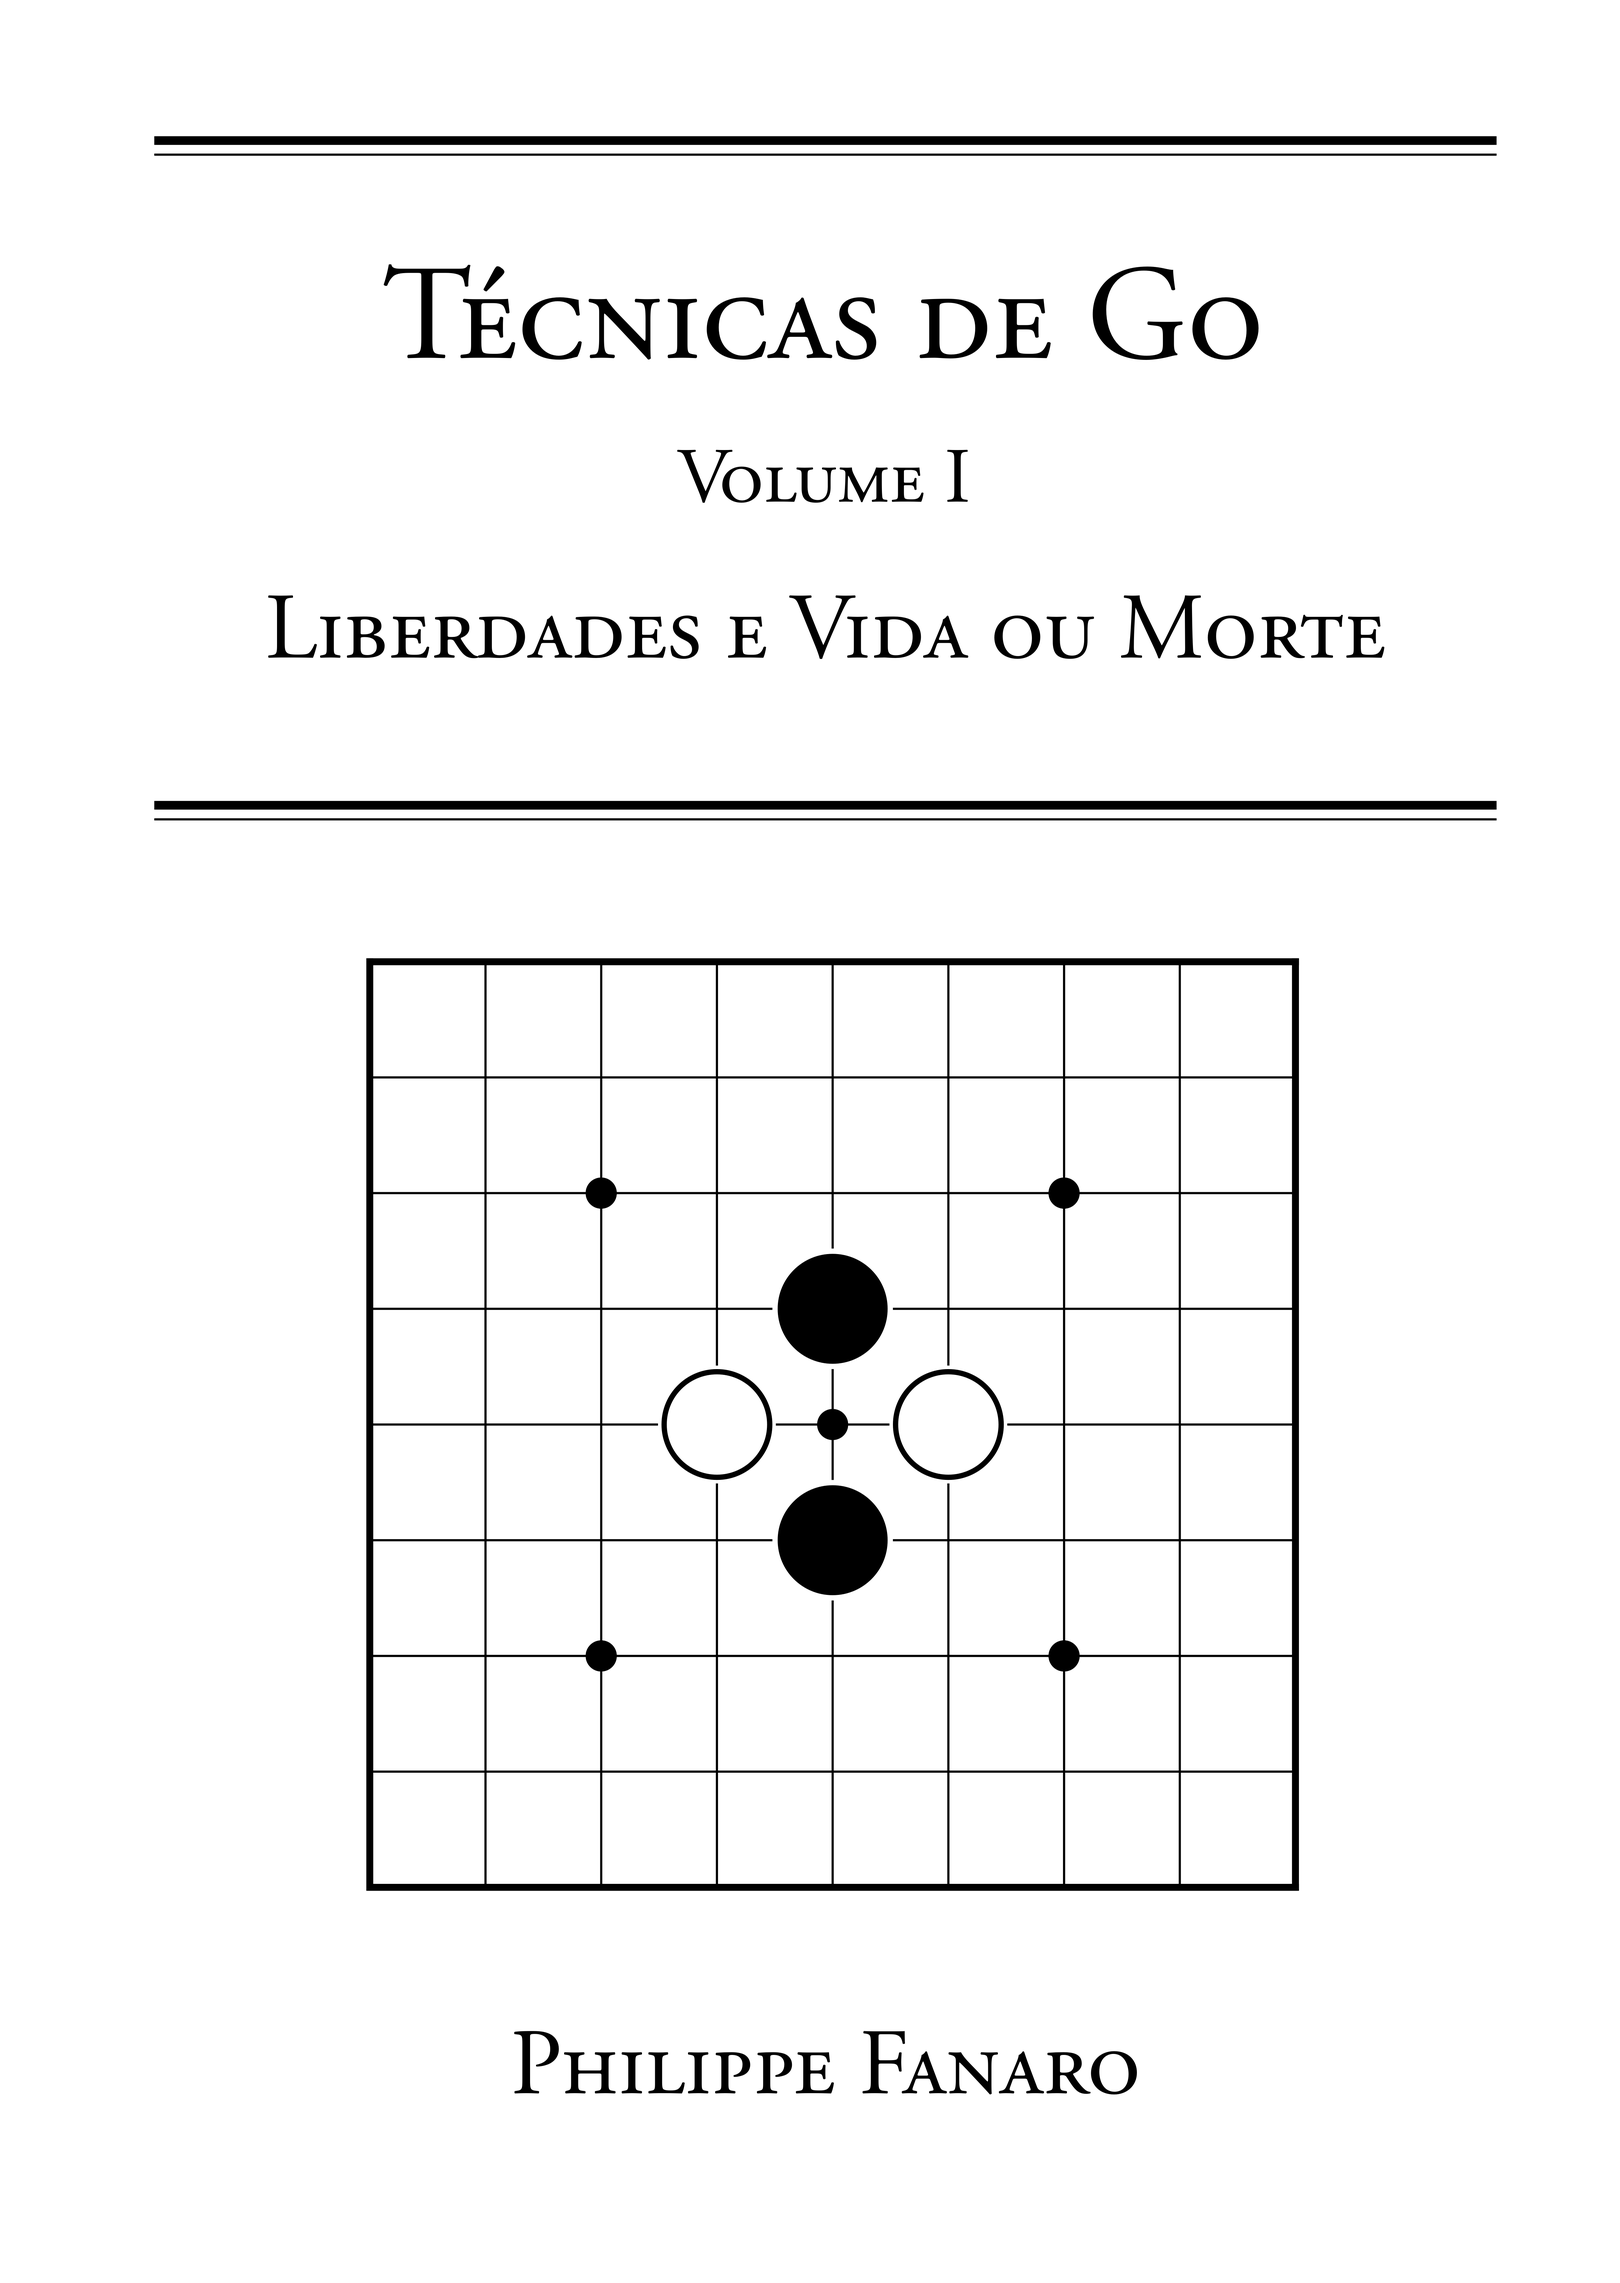
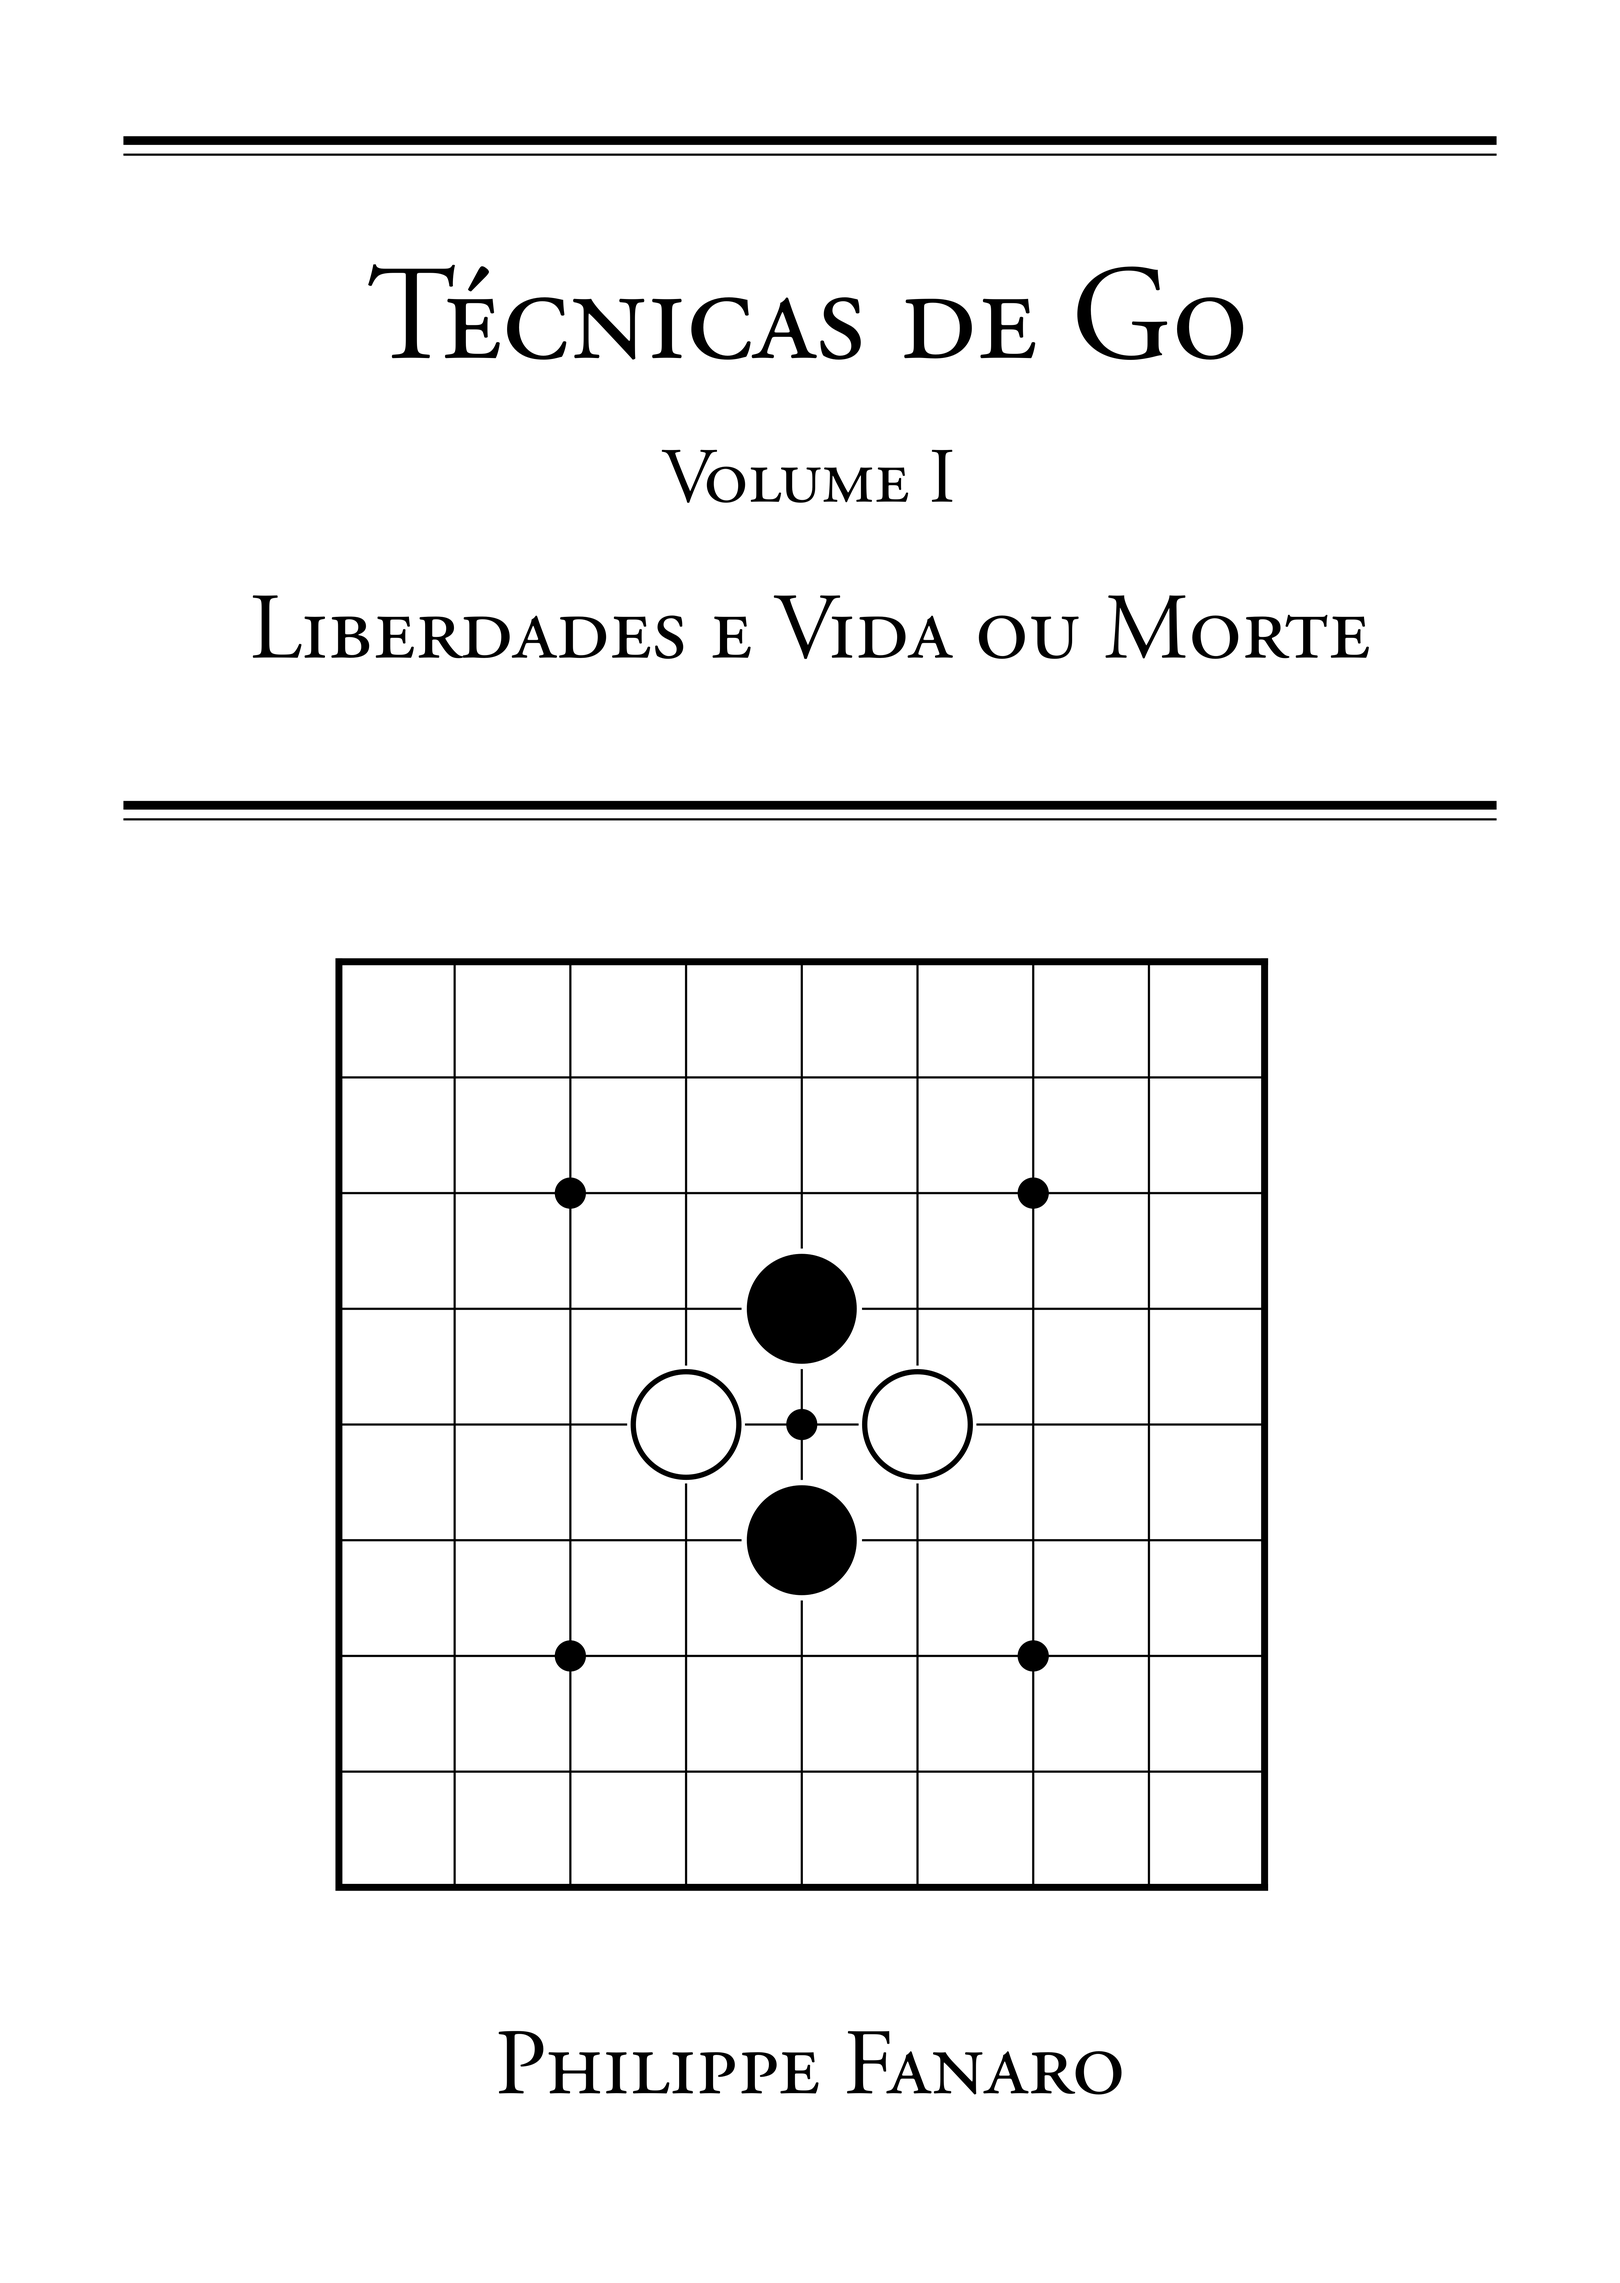
more minor improvements | rerendering the samples

diff --git a/src/Tecnicas_de_Go_1_Contra_Capa.tex b/src/Tecnicas_de_Go_1_Contra_Capa.tex
@@ -18,7 +18,7 @@
   \begin{titlepage}
     \setlength\parindent{0ex}
 
-    \vspace*{-1.5cm}
+    \vspace*{-1.35cm}
 
     \begin{center}
       \LARGE{\scshape Técnicas de Go}
@@ -40,13 +40,13 @@
 
     Philippe Fanaro é um jogador amador \emph{dan} brasileiro, formado em engenharia elétrica pela Escola Politécnica da USP, que procura trazer mais acesso, em língua portuguesa, ao conteúdo de Go disponível em inglês e línguas asiáticas.
 
-    \vspace*{0.0375cm}
+    \vspace*{0.0275cm}
     
     \begin{figure}[ht]
       \centering
       \hbox{
-        \hspace{0.885cm}
-        \begin{goban}[board dimension       = 8.75,
+        \hspace{0.93cm}
+        \begin{goban}[board dimension       = 8.40,
                       board size            = 19,
                       scale                 = 1,
                       outline line width    = 0.45mm,

diff --git a/src/tecnicas_de_go_1.tex b/src/tecnicas_de_go_1.tex
@@ -1,5 +1,3 @@
-% TODO: rerender cover and back cover samples (pdf and pictures)
-
 \documentclass[12pt]{book}
 
 % ~A6 (+ 5mm min left and right offset)
